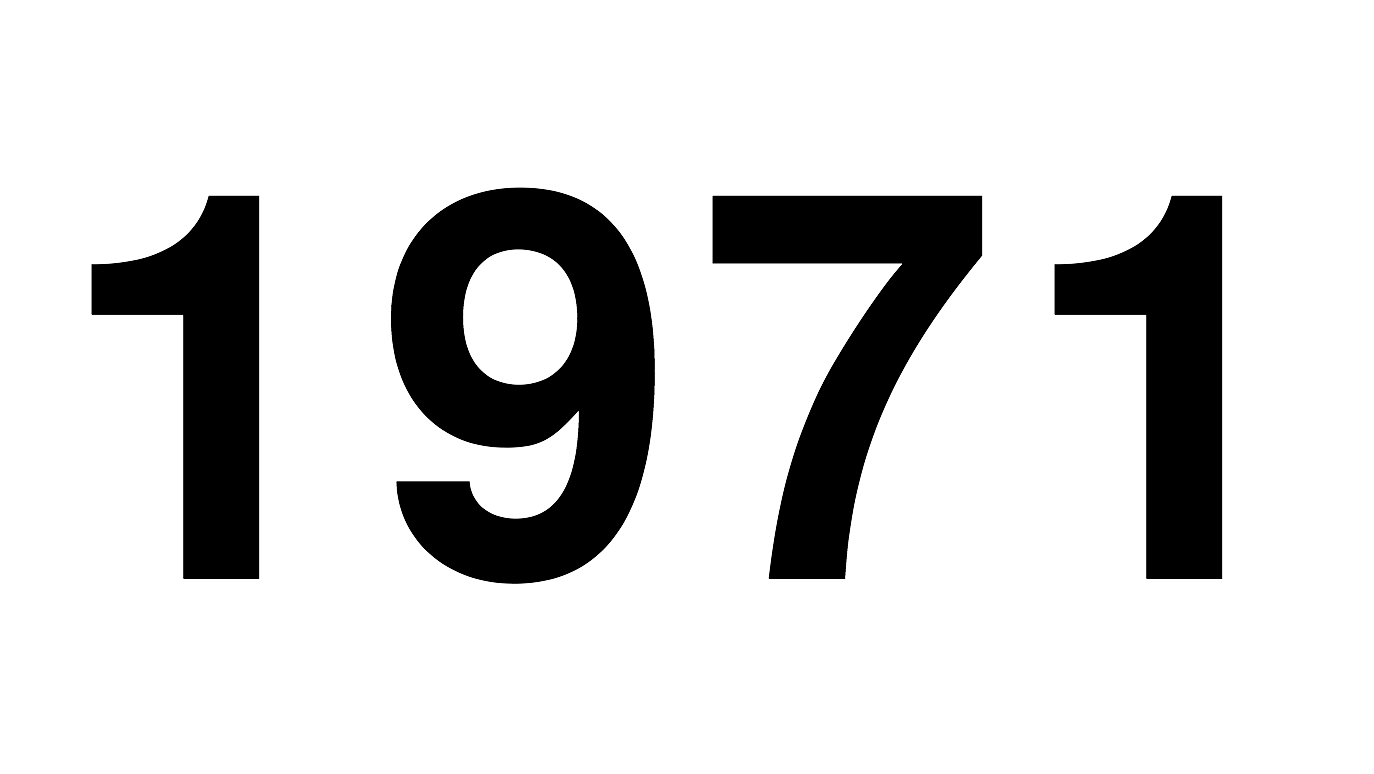
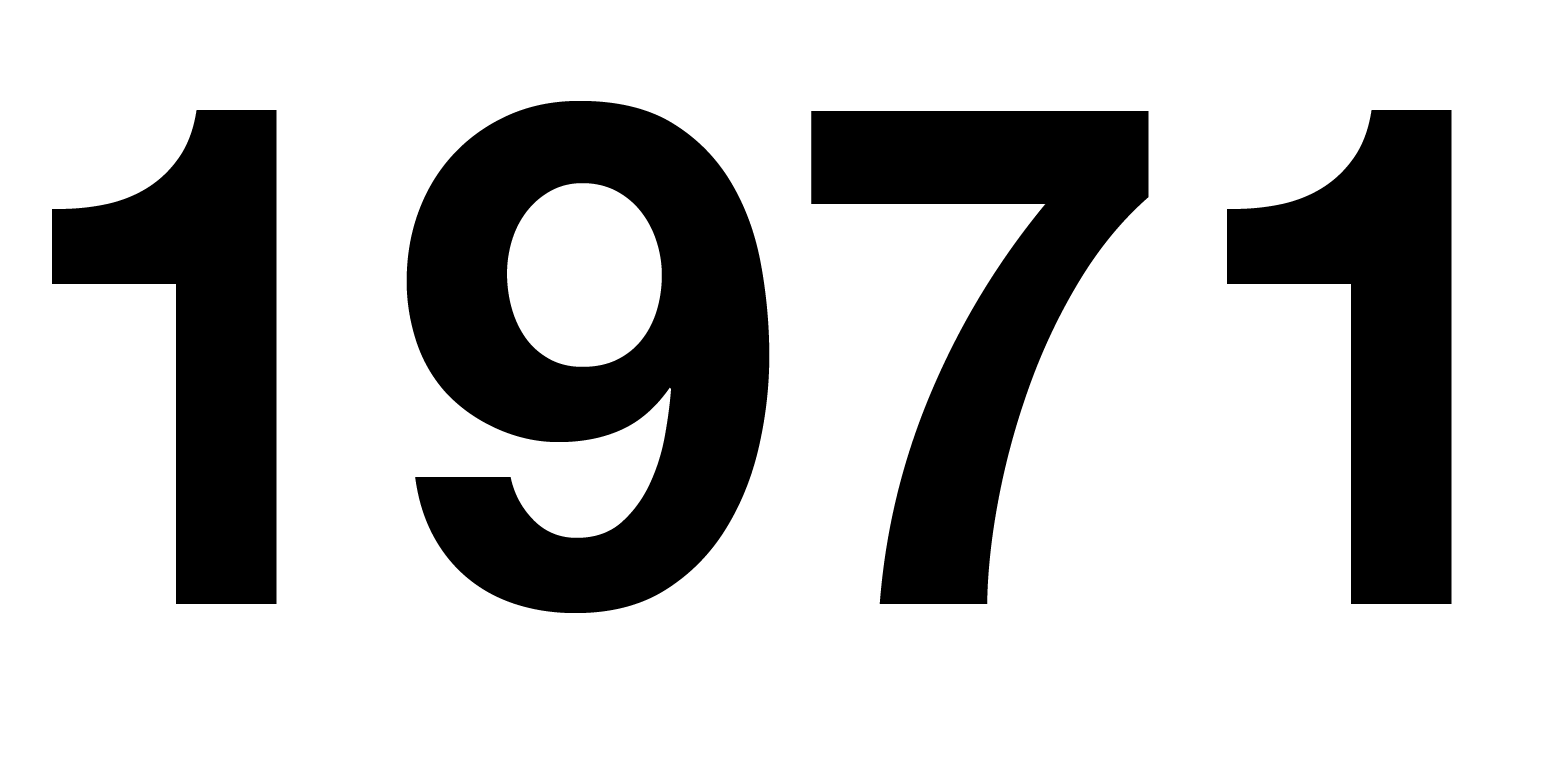
use png

diff --git a/index.html b/index.html
@@ -20,18 +20,7 @@
         <source src="https://ksr-video.imgix.net/projects/2641739/video-713751-h264_high.mp4" type="video/mp4">
       </video>
       <div class="nav">
-      <?xml version="1.0" encoding="UTF-8" standalone="no"?>
-        <svg class="logo" width="458px" height="258px" viewBox="0 0 458 258" version="1.1" xmlns="http://www.w3.org/2000/svg" xmlns:xlink="http://www.w3.org/1999/xlink" xmlns:sketch="http://www.bohemiancoding.com/sketch/ns">
-          <!-- Generator: Sketch 3.2.2 (9983) - http://www.bohemiancoding.com/sketch -->
-          <title> 1972</title>
-          <desc>Created with Sketch.</desc>
-          <defs></defs>
-          <g id="Page-1" stroke="none" stroke-width="1" fill="none" fill-rule="evenodd" sketch:type="MSPage">
-            <text id="1971" sketch:type="MSTextLayer" font-family="TeX Gyre Heros" font-size="180" font-weight="bold" sketch:alignment="middle" letter-spacing="7">
-              <tspan x="18.34" y="193">1971</tspan>
-            </text>
-          </g>
-        </svg>
+        <img class="logo" src="images/1971.png" alt="1971 logo " />
         <div class="bottom collab"></div>
         <div class="bottom scrollMore"></div>
 
